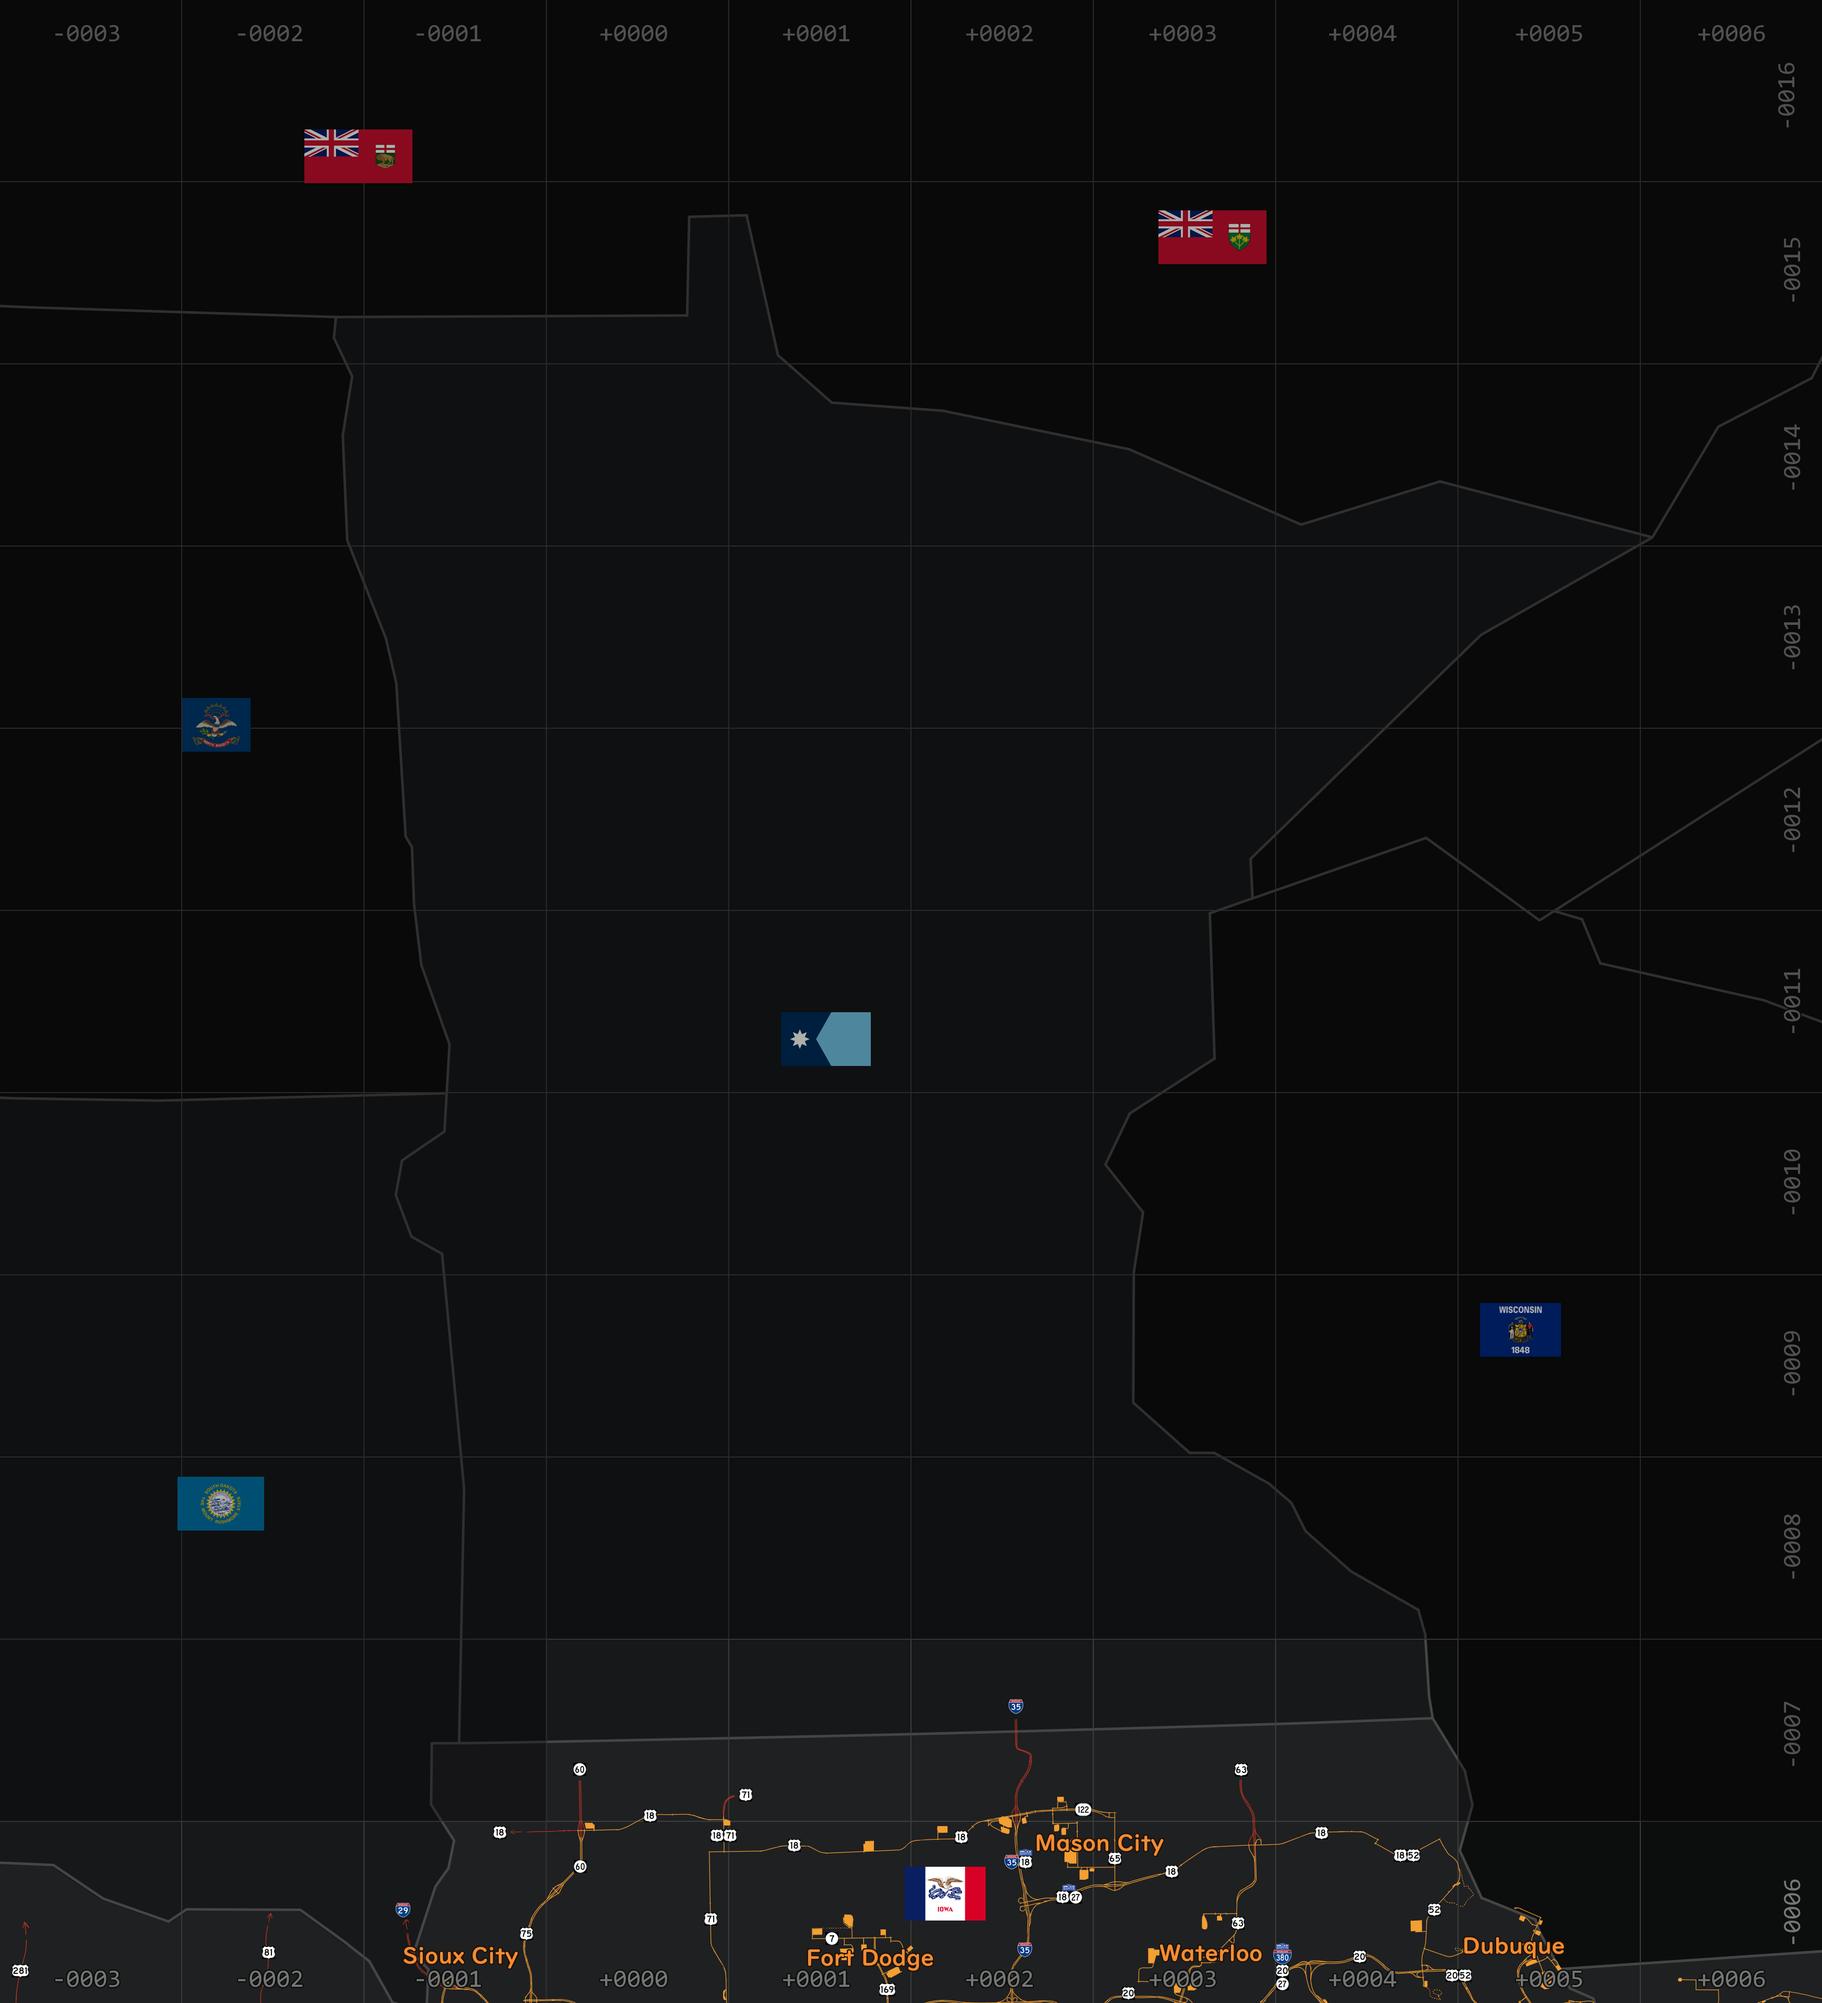
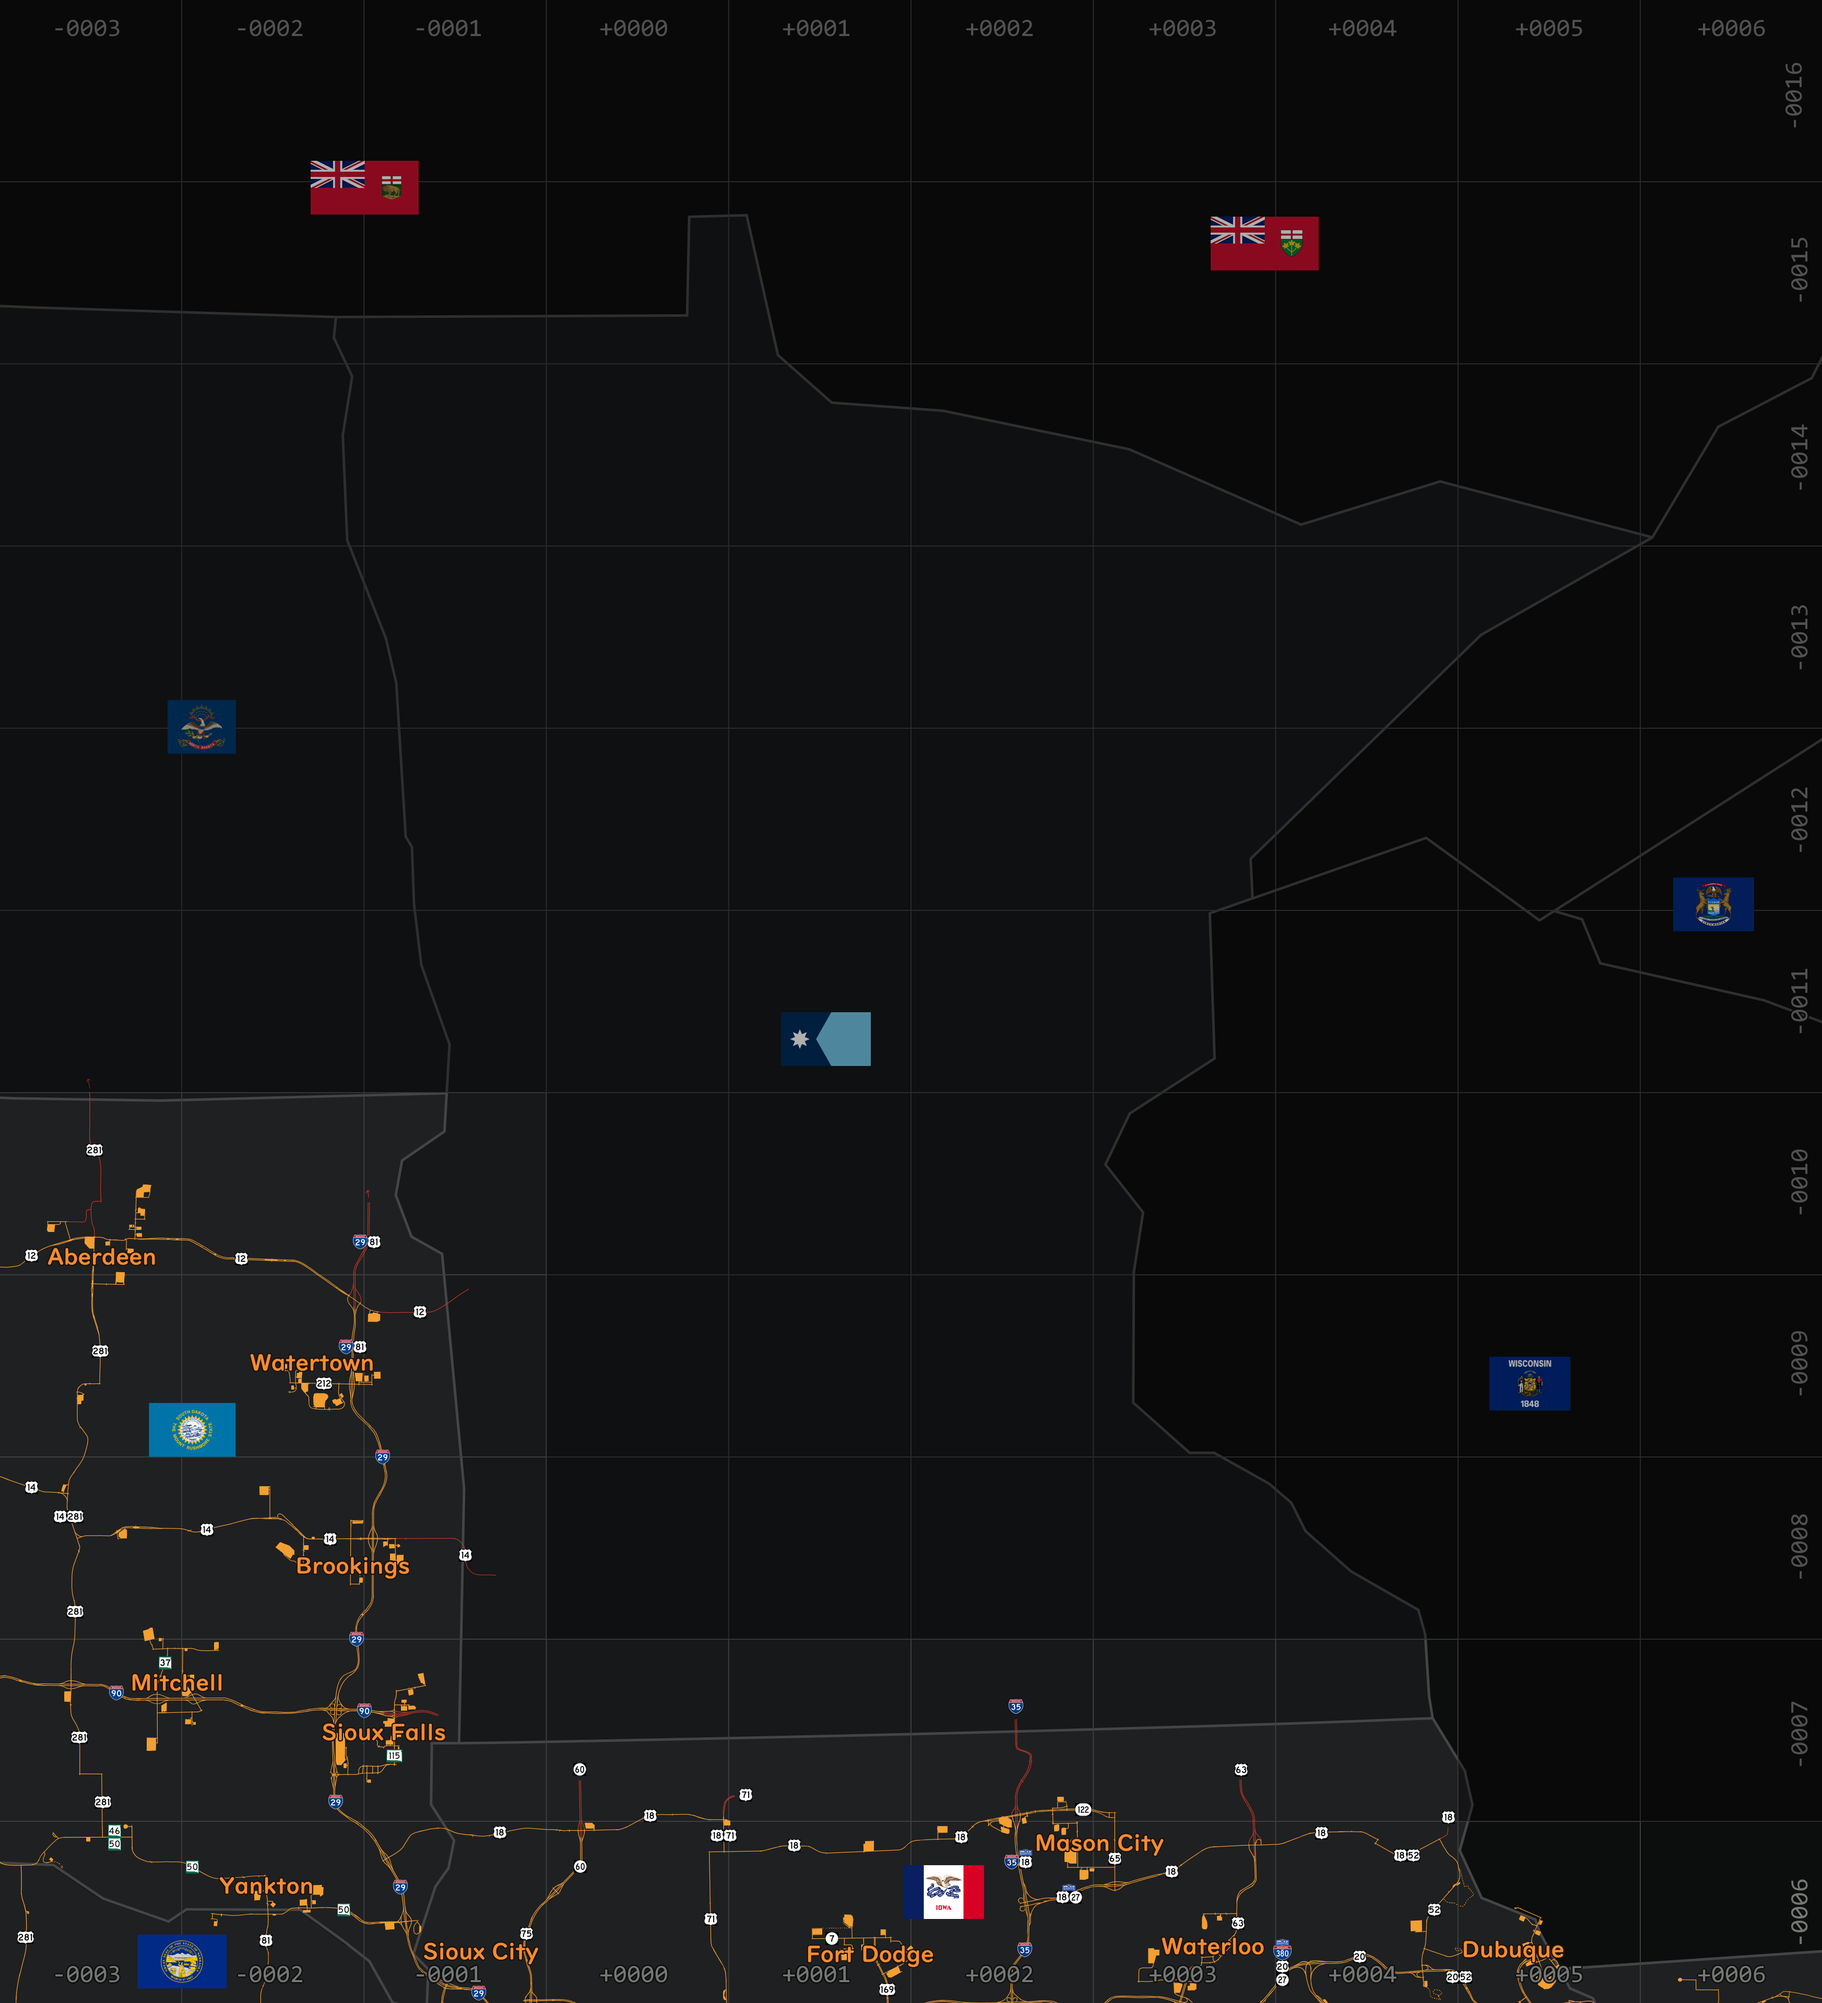
v61.8

diff --git a/assets/js/image-zoom.js b/assets/js/image-zoom.js
@@ -123,10 +123,14 @@
     }
 
     function wheel(event) {
-        event.preventDefault();
-        const direction = event.deltaY < 0 ? 1 : -1;
-        zoomAt(scale + direction * CONFIG.wheelStep, event.clientX, event.clientY);
-    }
+    event.preventDefault();
+    const direction = event.deltaY < 0 ? 1 : -1;
+    
+    // Scales the step size with current zoom level; greater zoom increases step size
+    const step = CONFIG.wheelStep * Math.max(1, scale);
+    
+    zoomAt(scale + direction * step, event.clientX, event.clientY);
+}
 
     function pointerDown(event) {
         activePointers.set(event.pointerId, { x: event.clientX, y: event.clientY });

diff --git a/README.md b/README.md
@@ -316,7 +316,7 @@
 <div style="background:#111; border:1px solid #333; padding:7px 12px; margin-bottom:20px; font-size:0.85em; text-align:center;">
 <span>Updated: </span>
 <strong style="font-family:'Orbitron',sans-serif;color:#D4AF37;">v1.61</strong>
-<span style="color:#777;">· Released Sep 15/17</span>
+<span style="color:#777;">· Released Sep 26</span>
 </div>
 
 <div style="border:1px solid #444; background:#151515; margin-bottom:20px;">
@@ -330,7 +330,6 @@
       <a href="#/ats/britishcolumbia" style="color:#D4AF37">British Columbia</a>
       <a href="#/ats/indiana" style="color:#D4AF37">Indiana</a>
       <a href="#/ats/northdakota" style="color:#D4AF37">North Dakota</a>
-      <a href="#/ats/southdakota" style="color:#D4AF37">South Dakota</a>
     </div>
   </div>
 </div>
@@ -352,6 +351,7 @@
   <a href="#/ats/britishcolumbia" style="color:#D4AF37">British Columbia</a>
   <a href="#/ats/california" style="color:#D4AF37">California</a>
   <a href="#/ats/indiana" style="color:#D4AF37">Indiana</a>
+  <a href="#/ats/minnesota" style="color:#D4AF37">Minnesota</a>
   <a href="#/ats/montana" style="color:#D4AF37">Montana</a>
   <a href="#/ats/nevada" style="color:#D4AF37">Nevada</a>
   <a href="#/ats/northdakota" style="color:#D4AF37">North Dakota</a>

diff --git a/ats/northdakota.md b/ats/northdakota.md
@@ -3,8 +3,21 @@
 
 ## Maps
 
-### 1.61
+### 1.61 (post-South Dakota)
 <img alt="1.61 ND" 
+     src="assets\img\statemaps\1.61 ND 2.png"
+     style="max-width: 100%; height: auto; width: auto; display: block;">
+
+- South Dakota has released with many new roads towards North Dakota with it.
+     - US-85 from Buffalo, SD.
+     - SD 73 from Meadow, SD.
+     - US-12 from west of Mobridge, SD.
+     - US-83 from Selby, SD.
+     - US-281 from Aberdeen, SD.
+     - I-29 from Summit, SD.
+
+### 1.61 (pre-South Dakota)
+<img alt="1.61 ND (early)" 
      src="assets\img\statemaps\1.61 ND.png"
      style="max-width: 100%; height: auto; width: auto; display: block;">
 

diff --git a/changelog.md b/changelog.md
@@ -2,6 +2,11 @@
 
 ## v61
 
+### 61.8
+For ATS/ETS2 v<span style="color:orange;"><b>1.61 </b></span>: 2026.9.26
+- Updated for the full release of South Dakota. This includes both the US and Canada full maps on the main landing page as well as map and page updates to [North Dakota](ats/northdakota.md) and [Minnesota](ats/minnesota.md) due to new map connections.
+- Tweaked the image-zoom feature to increase zooming speed at greater zoom levels.
+
 ### 61.7 
 For ATS/ETS2 v<span style="color:orange;"><b>1.61 </b></span>: 2026.9.17
 - Full release version bump. No further updates.

diff --git a/ats/southdakota.md b/ats/southdakota.md
@@ -1,12 +1,7 @@
 # South Dakota
-!> **Note,** South Dakota is in development. Information on this page is highly susceptible to changes in the future.
+?> **Note,** South Dakota was released with v1.61. No further map updates will occur but mileage targets may be added along with future map expansions (Minnesota, North Dakota).
 
 ## Maps
-
-### Temporary South Dakota Greater Zoom
-<img alt="tempkota!" 
-     src="assets\img\statemaps\tempkota.png"
-     style="max-width: 100%; height: auto; width: auto; display: block;">
 
 ### 1.61
 <img alt="1.61 SD" 

diff --git a/ats/montana.md b/ats/montana.md
@@ -1,5 +1,5 @@
 # Montana
-?> **Note,** Montana has been released. No further map updates will occur but mileage targets may be added along with future map expansions (Alberta, British Columbia, North Dakota, Saskatchewan, South Dakota).
+?> **Note,** Montana has been released. No further map updates will occur but mileage targets may be added along with future map expansions (Alberta, British Columbia, North Dakota, Saskatchewan).
 
 ## Mileage Targets
 Montana has 77 mileage targets. The most recent update occurred with version 1.61.

diff --git a/ats/wyoming.md b/ats/wyoming.md
@@ -1,5 +1,5 @@
 # Wyoming
-?> **Note,** Wyoming has been released. No further map updates will occur but mileage targets may be added along with future map expansions (South Dakota).
+?> **Note,** Wyoming and all of its bordering states have been released. No further updates are anticipated at this time.
 
 ## Mileage Targets
 Wyoming has 61 mileage targets. The most recent update occurred with version 1.60.

diff --git a/ats/iowa.md b/ats/iowa.md
@@ -1,5 +1,5 @@
 # Iowa
-?> **Note,** Iowa was released with v1.55. No further map updates will occur but mileage targets may be added along with future map expansions (Minnesota, South Dakota, Wisconsin).
+?> **Note,** Iowa was released with v1.55. No further map updates will occur but mileage targets may be added along with future map expansions (Minnesota, Wisconsin).
 
 ## Maps
 

diff --git a/ats/nebraska.md b/ats/nebraska.md
@@ -1,5 +1,5 @@
 # Nebraska
-?> **Note,** Nebraska was released with v1.50. No further map updates will occur but mileage targets may be added along with future map expansions (South Dakota).
+?> **Note,** Nebraska was released with version 1.50. All of its bordering states have also been released. No further updates are anticipated at this time.
 
 ## Maps
 
